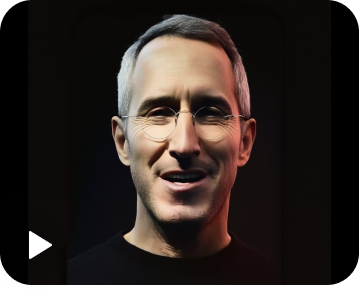
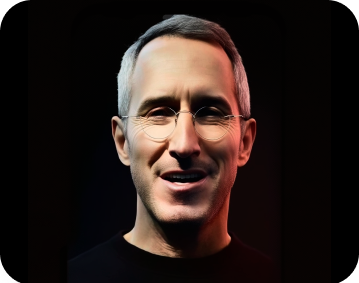
1

diff --git a/about.html b/about.html
@@ -134,6 +134,81 @@
             </div>
           </div>
         </section>
+        <section class="qualification">
+          <div class="container">
+            <div class="all-wrapper">
+              <div class="qualification__top">
+                <h2>Квалификация</h2>
+              </div>
+              <div class="qualification__items">
+                <!--сертификат-->
+                <div class="qualification__item">
+                  <div class="qualification__text">
+                    <h5>Microsoft Certified Professional</h5>
+                  </div>
+                  <div class="qualification__author">
+                    <img src="./images/qualif.png" alt="картинка" />
+                    <p>Борис Антохонов</p>
+                  </div>
+                </div>
+                <!--сертификат-->
+                <div class="qualification__item">
+                  <div class="qualification__text">
+                    <h5>Microsoft Certified IT Professional</h5>
+                    <p>Caption</p>
+                  </div>
+                  <div class="qualification__author">
+                    <img src="./images/qualif.png" alt="картинка" />
+                    <p>Сергей Гальченко</p>
+                  </div>
+                </div>
+                <!--сертификат-->
+                <div class="qualification__item">
+                  <div class="qualification__text">
+                    <h5>Microsoft Certified Professional</h5>
+                  </div>
+                  <div class="qualification__author">
+                    <img src="./images/qualif.png" alt="картинка" />
+                    <p>Сергей Гальченко</p>
+                  </div>
+                </div>
+                <!--сертификат-->
+                <div class="qualification__item">
+                  <div class="qualification__text">
+                    <h5>Microsoft Certified Solutions Associate</h5>
+                    <p>Caption</p>
+                  </div>
+                  <div class="qualification__author">
+                    <img src="./images/qualif.png" alt="картинка" />
+                    <p>Сергей Гальченко</p>
+                  </div>
+                </div>
+                <!--сертификат-->
+                <div class="qualification__item">
+                  <div class="qualification__text">
+                    <h5>Microsoft Technology Specialist</h5>
+                    <p>Caption</p>
+                  </div>
+                  <div class="qualification__author">
+                    <img src="./images/qualif.png" alt="картинка" />
+                    <p>Сергей Гальченко</p>
+                  </div>
+                </div>
+                <!--сертификат-->
+                <div class="qualification__item">
+                  <div class="qualification__text">
+                    <h5>Microsoft Technology Specialist</h5>
+                    <p>Caption</p>
+                  </div>
+                  <div class="qualification__author">
+                    <img src="./images/qualif.png" alt="картинка" />
+                    <p>Сергей Гальченко</p>
+                  </div>
+                </div>
+              </div>
+            </div>
+          </div>
+        </section>
       </main>
       <footer class="footer">
         <div class="container">

diff --git a/css/about.css b/css/about.css
@@ -98,7 +98,7 @@
   padding: 32px;
   box-sizing: border-box;
 }
-@media (max-width: 1023px) {
+@media (max-width: 1024px) {
   .career__text {
     max-width: 380px;
   }
@@ -124,5 +124,107 @@
 @media (max-width: 1023px) {
   .career__text h3 {
     margin-top: 0;
+  }
+}
+/*------------------------------------------------------qualification-----------------------------------------------------------*/
+.qualification {
+  width: 100%;
+}
+.qualification__top {
+  padding-left: 32px;
+  padding-right: 32px;
+  box-sizing: border-box;
+}
+@media (max-width: 767px) {
+  .qualification__top {
+    padding-left: 24px;
+    padding-right: 24px;
+    box-sizing: border-box;
+  }
+}
+.qualification__items {
+  display: flex;
+  flex-wrap: wrap;
+  gap: 16px;
+  margin-top: 32px;
+}
+@media (max-width: 1280px) {
+  .qualification__items {
+    margin-top: 40px;
+  }
+}
+@media (max-width: 1023px) {
+  .qualification__items {
+    margin-top: 32px;
+  }
+}
+.qualification__item {
+  width: 373.33px;
+  border-radius: 44px;
+  display: flex;
+  flex-direction: column;
+  padding: 32px;
+  box-sizing: border-box;
+  background: #f0efed;
+  gap: 78px;
+}
+.qualification__text {
+  display: flex;
+  flex-direction: column;
+  gap: 16px;
+}
+.qualification__author {
+  display: flex;
+  align-items: center;
+  gap: 16px;
+  margin-top: auto;
+}
+.qualification__author img {
+  width: 80px;
+  height: 80px;
+}
+
+@media (max-width: 1280px) and (min-width: 1023px) {
+  .qualification__text h5 {
+    font-size: 22px;
+    line-height: 36.3px;
+  }
+  .qualification__text p {
+    font-size: 18px;
+    line-height: 29.7px;
+  }
+}
+@media (max-width: 1280px) {
+  .qualification__item {
+    width: 330.67px;
+  }
+}
+@media (max-width: 1023px) {
+  .qualification__item {
+    width: 344px;
+    border-radius: 32px;
+    gap: 16px;
+  }
+  .qualification__author img {
+    width: 64px;
+    height: 64px;
+  }
+  .qualification__text p {
+    display: none;
+  }
+}
+@media (max-width: 767px) {
+  .qualification__items {
+    gap: 8px;
+  }
+  .qualification__item {
+    width: 100%;
+    padding: 24px;
+    gap: 8px;
+  }
+  .qualification__author {
+    flex-direction: column-reverse;
+    align-items: flex-start;
+    gap: 27px;
   }
 }

diff --git a/js/index.js b/js/index.js
@@ -1,12 +1,15 @@
 const videoPreviews = document.querySelectorAll(".video-preview");
 const videoPlayers = document.querySelectorAll(".video-player");
+const videoImages = document.querySelectorAll(".video-img");
 
 videoPreviews.forEach((videoPreview, index) => {
   videoPreview.addEventListener("click", function () {
     videoPreview.style.display = "none";
+    videoImages[index].style.display = "none";
     videoPlayers[index].play();
   });
 });
+
 //////////////////////
 // const videoPreview = document.querySelector(".video-preview");
 // const videoPlayer = document.querySelector(".video-player");

diff --git a/css/main.css b/css/main.css
@@ -310,7 +310,14 @@ p {
     border-radius: 32px;
   }
 }
-@media (max-width: 1023px) {
+@media (max-width: 1390px) {
+  .video-preview-about {
+    background-image: url(../images/Media-tt.png);
+    background-repeat: no-repeat;
+    background-size: cover;
+  }
+}
+@media (max-width: 1024px) {
   .video-preview-about {
     background-image: url(../images/preview-about-t.png);
     background-repeat: no-repeat;
